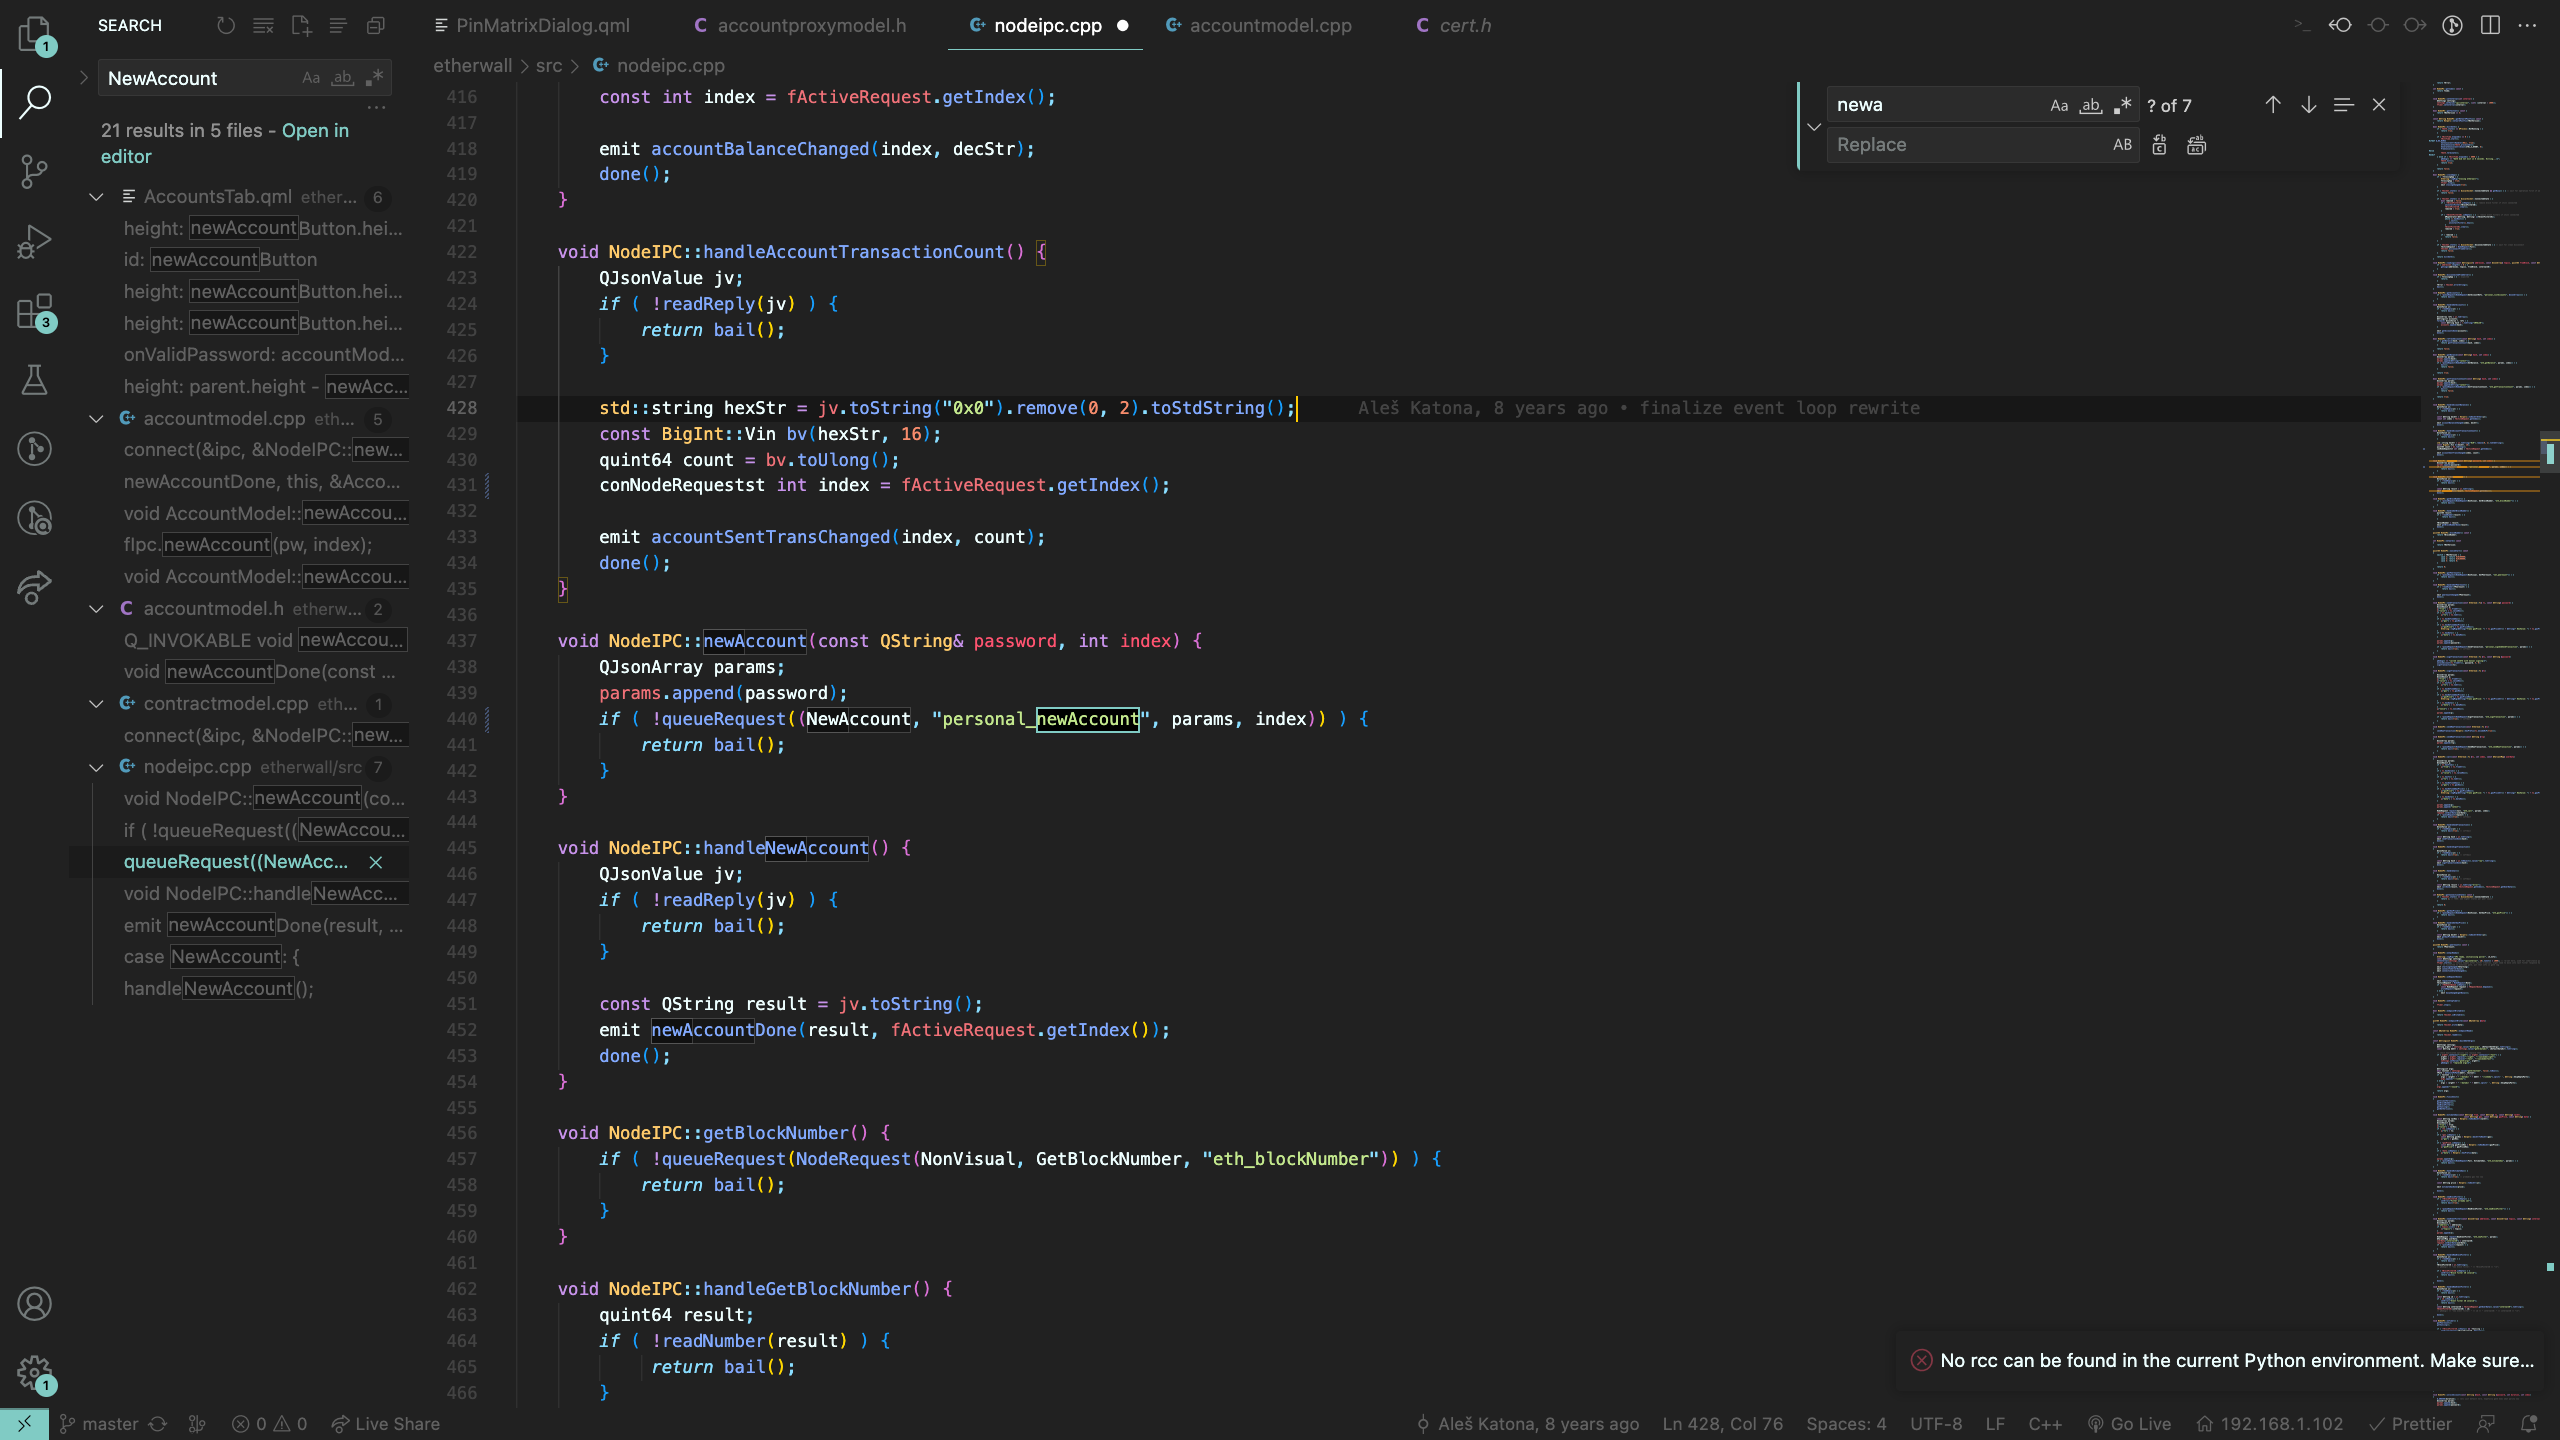
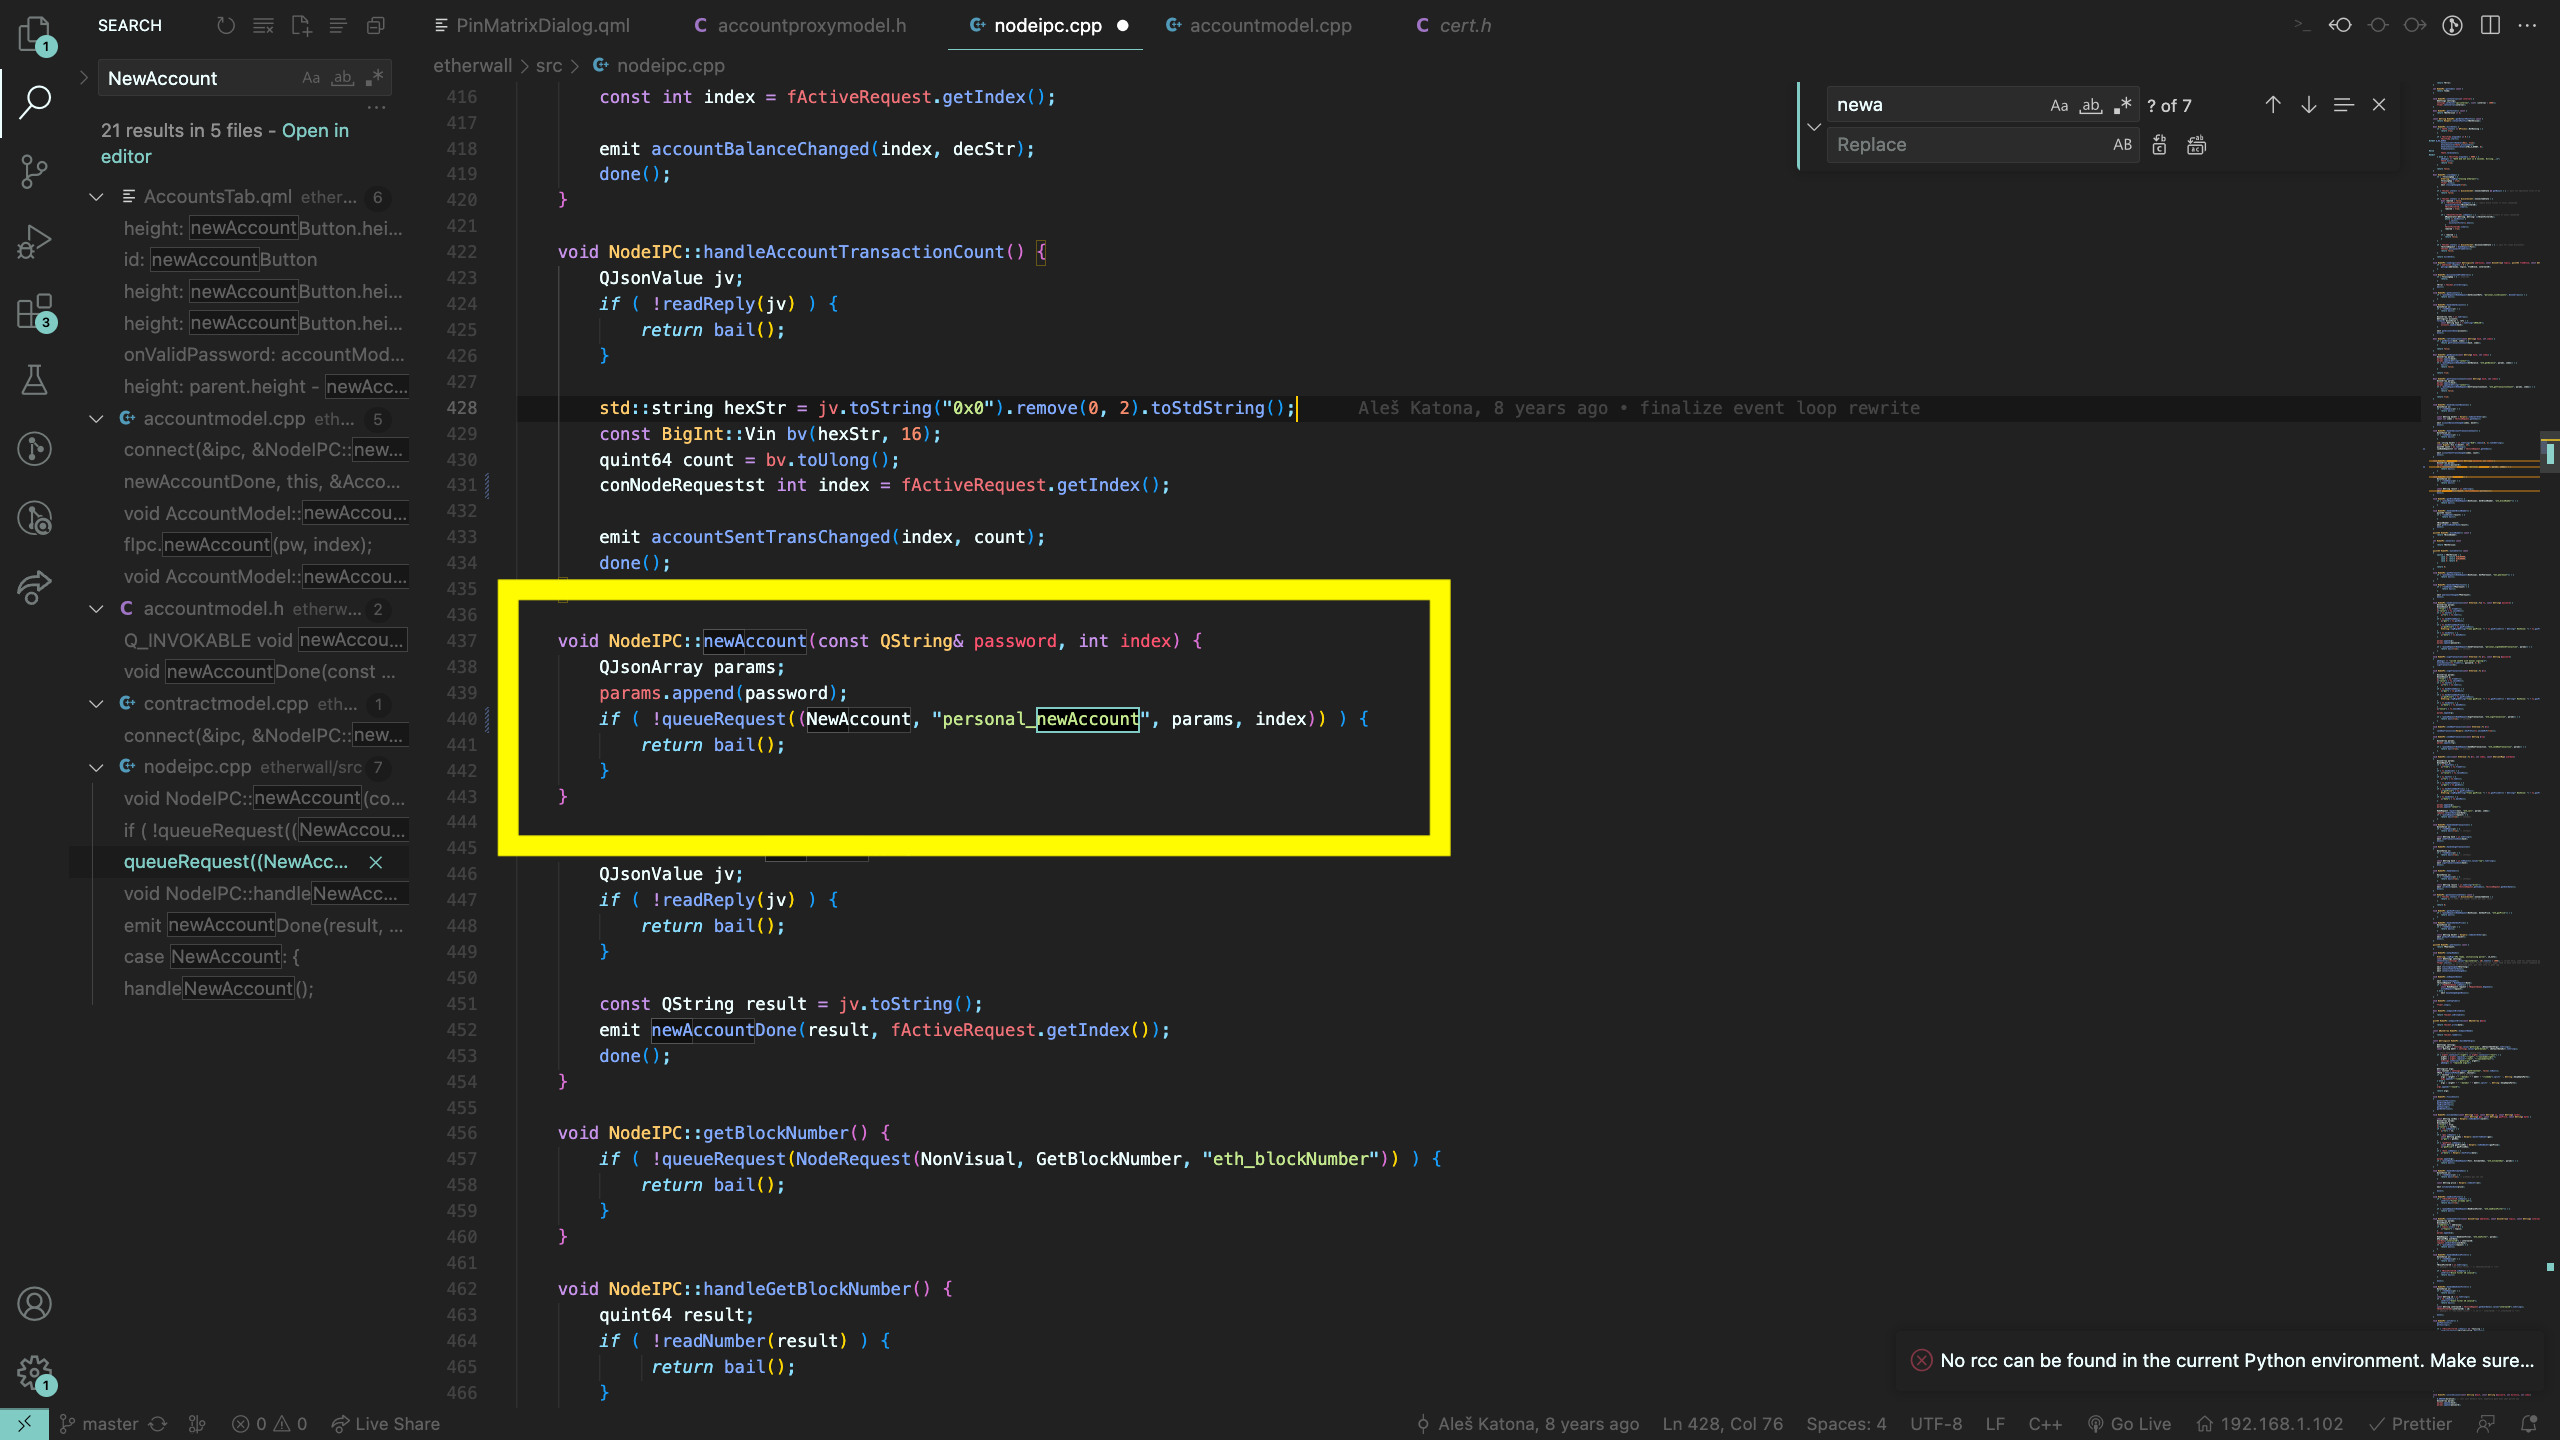
[UPDATE] 암호공모전 2주차 자료 추가

Changed region(s): [[0.1875, 0.375, 0.5938, 0.5938]]

diff --git a/_posts/2023-07-01-Etherwall.md b/_posts/2023-07-01-Etherwall.md
@@ -209,3 +209,15 @@ Settings 에 들어가면, `Geth Data Directory`에서 Ethereum의 경로를 확
 
 ![code1](/assets/images/banners/2023-07-01/code1.png)  
 소스 코드는, 우리가 맨 처음에 눌렀던 버튼인 `new account`에서 시작합니다.
+
+![code2](/assets/images/banners/2023-07-01/code2.png)
+![code3](/assets/images/banners/2023-07-01/code3.png)
+
+아까부터 계속 눈에 띄던 NodeIPC 는 도대체 뭘까요??
+
+아무리 찾아도 원형 함수가 보이지 않습니다.
+
+혹시나 하여 인터넷에 검색해 보았더니, npm, 즉 node.js 와 관련된 외부 라이브러리 같습니다.  
+![nodeIPC](/assets/images/banners/2023-07-01/nodeIPC.png)
+
+### 이번주는 여기까지!!
